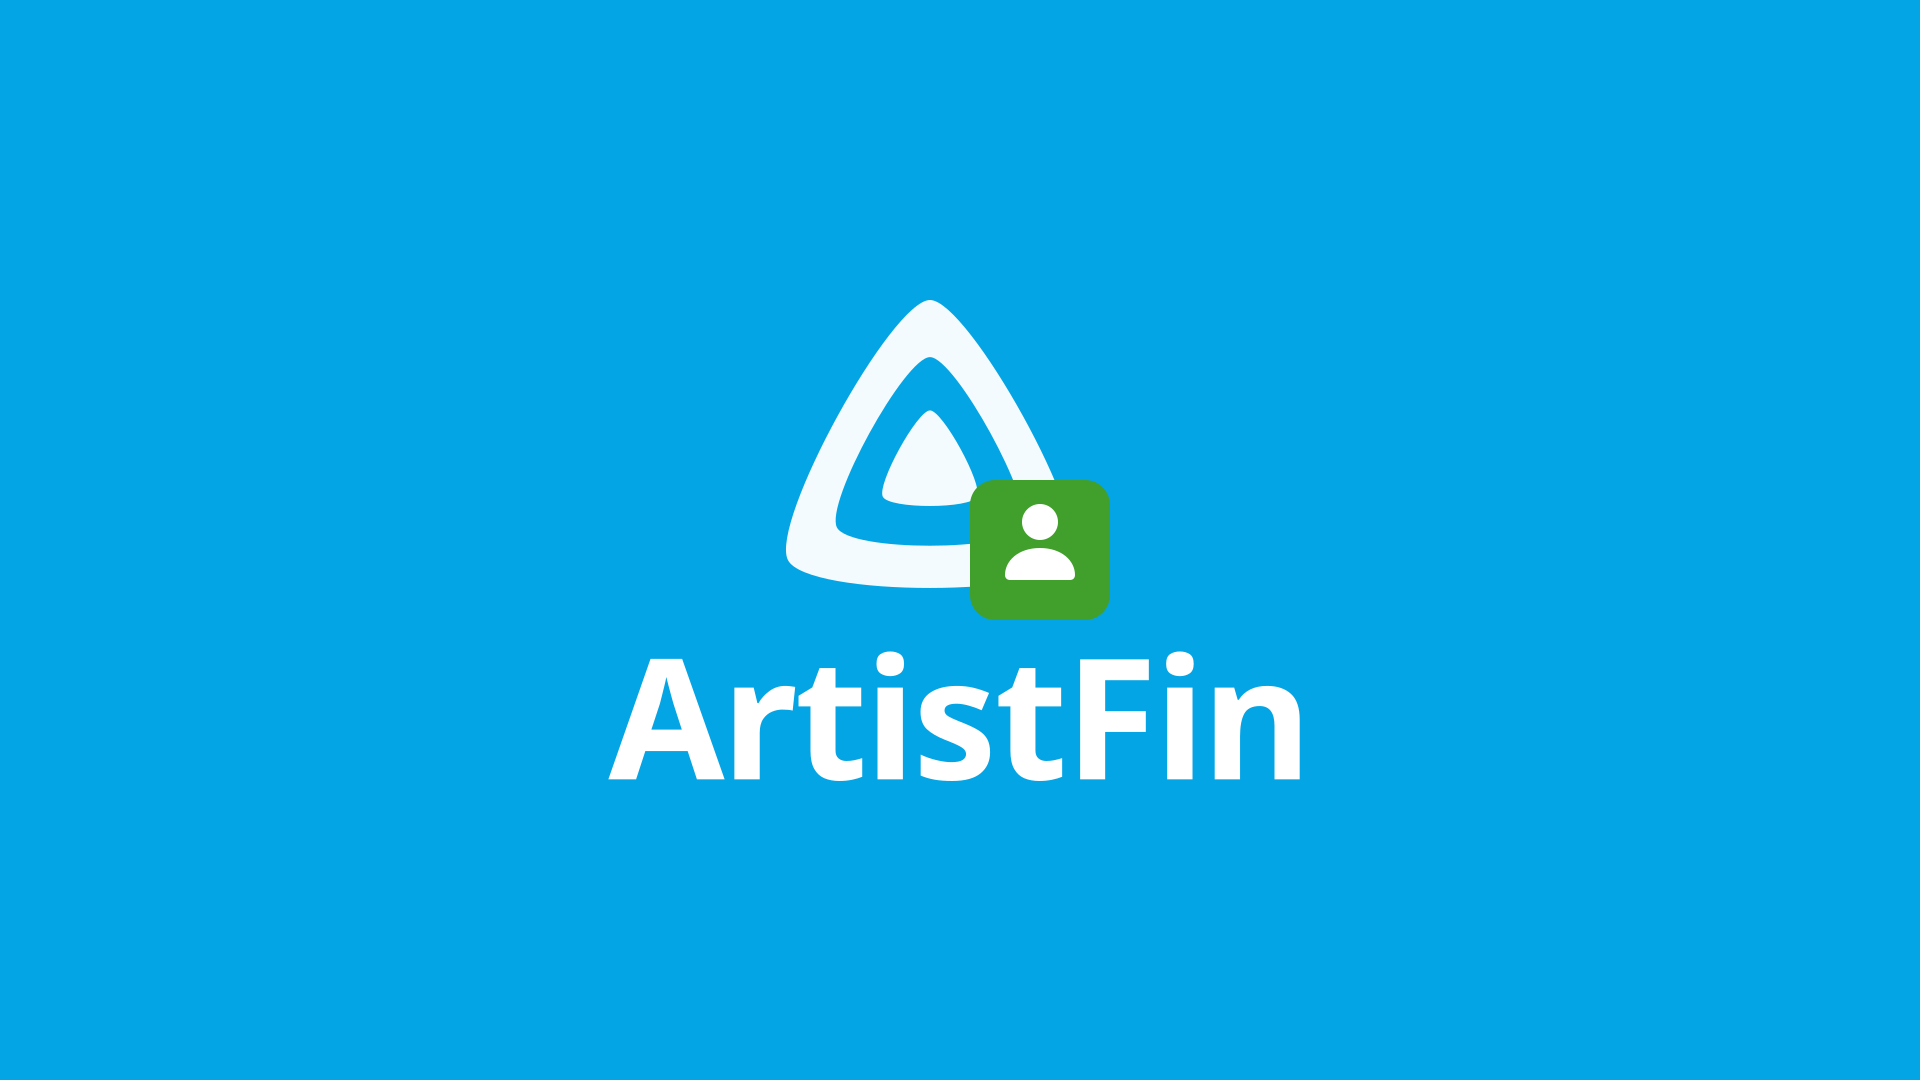
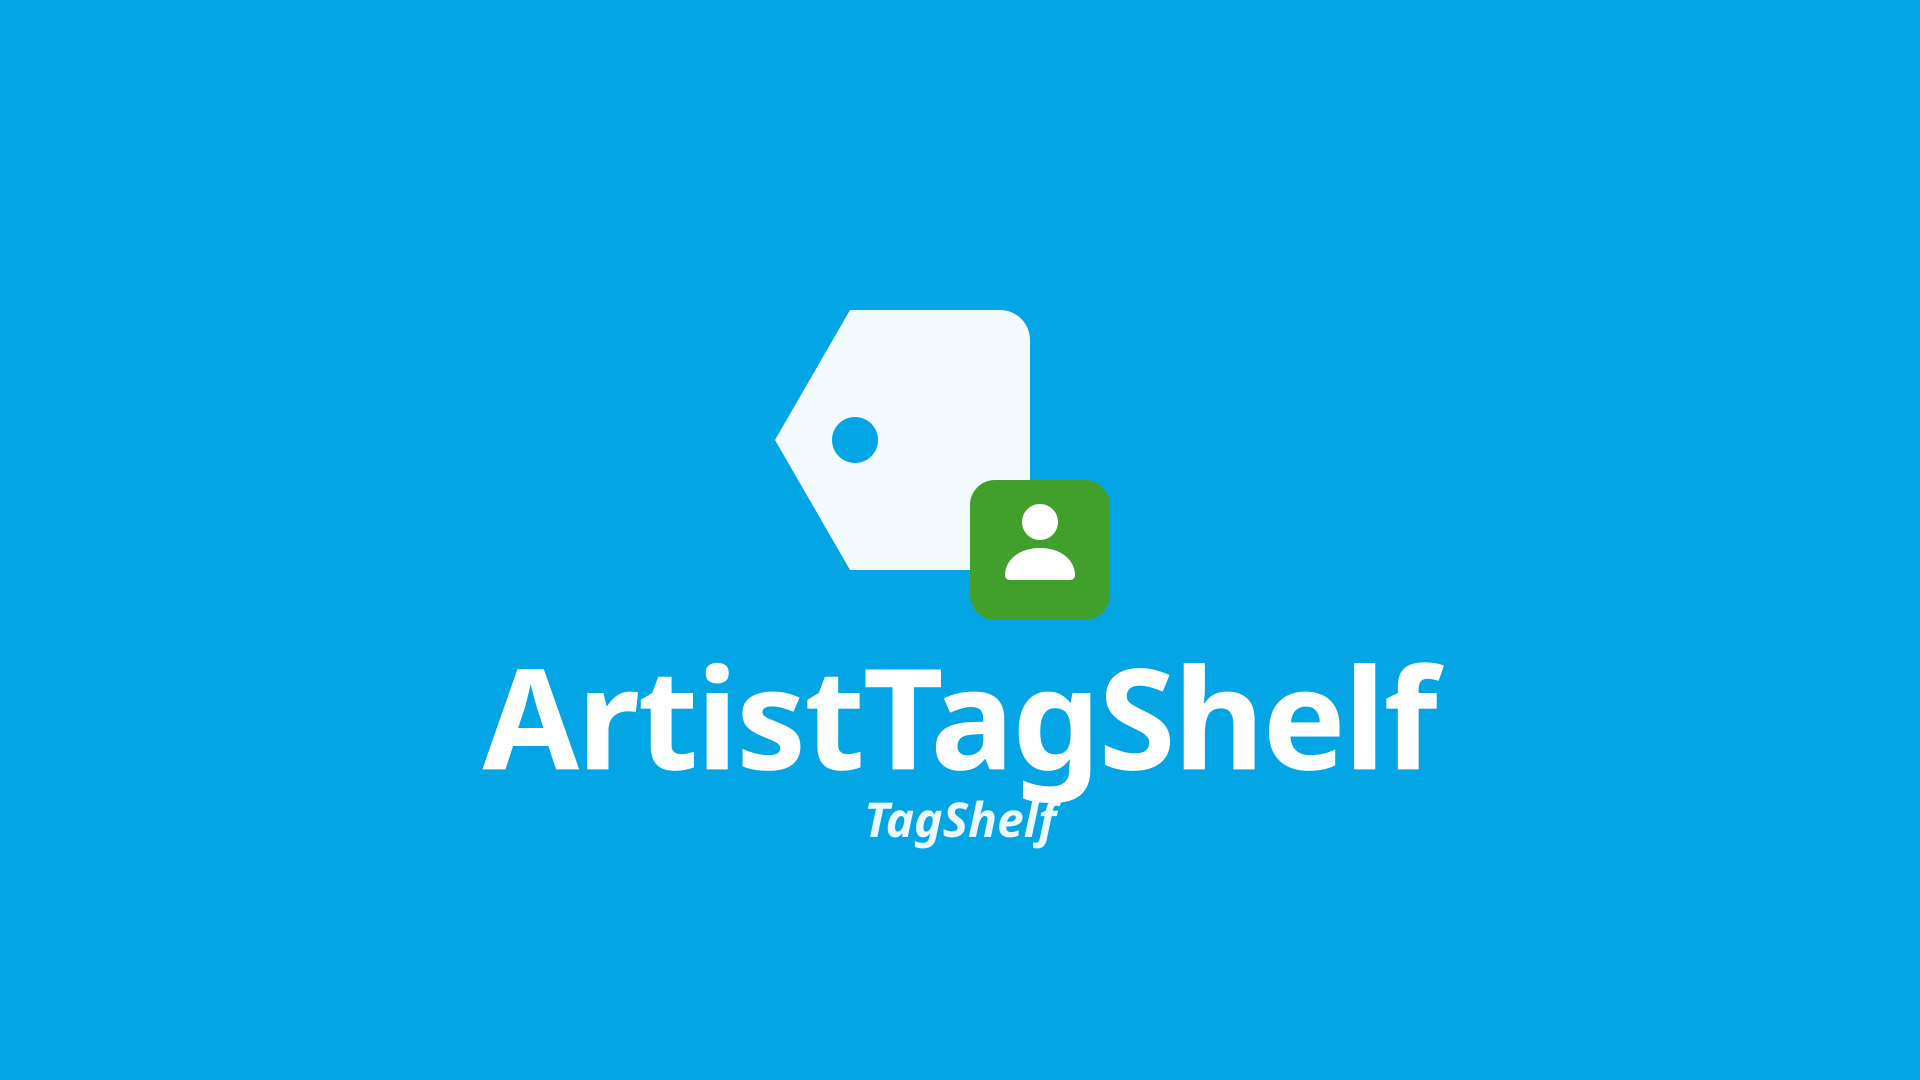
Rebrand to ArtistTagShelf
Rebrand from ArtistFin to ArtistTagShelf; new TagShelf logo; migrate HTTP cache folder. Plugin GUID unchanged.

Changed region(s): [[0.25, 0.5806, 0.75, 0.7944], [0.4062, 0.275, 0.5625, 0.55]]

diff --git a/Configuration/configPage.html b/Configuration/configPage.html
@@ -2,7 +2,7 @@
 <html lang="en">
 <head>
     <meta charset="utf-8" />
-    <title>ArtistFin: Know Your Artists</title>
+    <title>ArtistTagShelf: Know Your Artists</title>
     <style>
         .finConfig .finIntro { margin: 0.25em 0 1.5em; opacity: 0.75; }
         .finConfig .verticalSection { margin-top: 1.75em; }
@@ -51,7 +51,7 @@
             <div class="content-primary">
                 <form id="AfConfigForm">
                     <div class="sectionTitleContainer flex align-items-center">
-                        <h2 class="sectionTitle">ArtistFin: Know Your Artists</h2>
+                        <h2 class="sectionTitle">ArtistTagShelf: Know Your Artists</h2>
                     </div>
                     <p class="fieldDescription finIntro">Fills artist <strong>bios</strong>, <strong>images</strong>, and profile details. The scheduled task only fills what is missing.</p>
 
@@ -336,7 +336,7 @@
                 Dashboard.showLoadingMsg();
                 return ApiClient.ajax({
                     type: 'POST',
-                    url: ApiClient.getUrl('ArtistFin/RefreshAll'),
+                    url: ApiClient.getUrl('ArtistTagShelf/RefreshAll'),
                     contentType: 'application/json',
                     dataType: 'json'
                 }).then(function () {

diff --git a/ArtistEngine.cs b/ArtistEngine.cs
@@ -1,5 +1,5 @@
 using Jellyfin.Data.Enums;
-using Jellyfin.Plugin.ArtistFin.Configuration;
+using Jellyfin.Plugin.ArtistTagShelf.Configuration;
 using MediaBrowser.Controller.Entities;
 using MediaBrowser.Controller.Entities.Audio;
 using MediaBrowser.Controller.Library;
@@ -7,7 +7,7 @@ using MediaBrowser.Controller.Providers;
 using MediaBrowser.Model.Entities;
 using Microsoft.Extensions.Logging;
 
-namespace Jellyfin.Plugin.ArtistFin;
+namespace Jellyfin.Plugin.ArtistTagShelf;
 
 public class ArtistEngine
 {
@@ -50,7 +50,7 @@ public class ArtistEngine
         if (force)
         {
             _cache.Clear();
-            _logger.LogInformation("ArtistFin: force refresh requested (HTTP cache cleared)");
+            _logger.LogInformation("ArtistTagShelf: force refresh requested (HTTP cache cleared)");
         }
 
         var cfg = Plugin.Instance?.Configuration ?? new PluginConfiguration();
@@ -71,7 +71,7 @@ public class ArtistEngine
                 .ToList();
 
         _logger.LogInformation(
-            "ArtistFin: {Targets}/{Total} artists ({Mode}), providers {Providers}, {Workers} workers",
+            "ArtistTagShelf: {Targets}/{Total} artists ({Mode}), providers {Providers}, {Workers} workers",
             targets.Count,
             artists.Count,
             force ? "force all" : "missing only",
@@ -108,7 +108,7 @@ public class ArtistEngine
             catch (Exception ex)
             {
                 Interlocked.Increment(ref failed);
-                _logger.LogWarning(ex, "ArtistFin failed on {Id} ({Name})", artist.Id, artist.Name);
+                _logger.LogWarning(ex, "ArtistTagShelf failed on {Id} ({Name})", artist.Id, artist.Name);
             }
             finally
             {
@@ -120,7 +120,7 @@ public class ArtistEngine
 
         progress.Report(100);
         _logger.LogInformation(
-            "ArtistFin finished: updated {Updated}, no match {Missed}, skipped {Skipped}, http {Http}/{Cache} cache",
+            "ArtistTagShelf finished: updated {Updated}, no match {Missed}, skipped {Skipped}, http {Http}/{Cache} cache",
             updated,
             failed,
             skipped,
@@ -159,7 +159,7 @@ public class ArtistEngine
         {
             LookupMiss.Remember(_cache, ArtistMissKey(artist));
             _logger.LogInformation(
-                "ArtistFin: {Artist}: marked unknown (will retry after cache TTL)",
+                "ArtistTagShelf: {Artist}: marked unknown (will retry after cache TTL)",
                 artist.Name);
             return false;
         }
@@ -260,7 +260,7 @@ public class ArtistEngine
         if (changed || imagesSaved > 0)
         {
             _logger.LogInformation(
-                "ArtistFin updated {Id}: {Name} ({Source})",
+                "ArtistTagShelf updated {Id}: {Name} ({Source})",
                 artist.Id,
                 artist.Name,
                 profile.Source);
@@ -294,7 +294,7 @@ public class ArtistEngine
         }
         catch (Exception ex)
         {
-            _logger.LogDebug(ex, "ArtistFin could not save {Type} image for {Name}", type, artist.Name);
+            _logger.LogDebug(ex, "ArtistTagShelf could not save {Type} image for {Name}", type, artist.Name);
             return false;
         }
     }

diff --git a/TagShelfCommon/HttpCache.cs b/TagShelfCommon/HttpCache.cs
@@ -3,22 +3,70 @@ using System.Text;
 using System.Text.Json;
 using MediaBrowser.Common.Configuration;
 
-namespace Jellyfin.Plugin.FinCommon;
+namespace Jellyfin.Plugin.TagShelfCommon;
 
 public sealed class HttpCache
 {
     private readonly string _dir;
     private readonly object _gate = new();
 
-    public HttpCache(IApplicationPaths paths, string cacheFolderName)
+    public HttpCache(IApplicationPaths paths, string cacheFolderName, string? legacyCacheFolderName = null)
         : this(Path.Combine(paths.CachePath, cacheFolderName))
     {
+        if (!string.IsNullOrEmpty(legacyCacheFolderName))
+        {
+            TryMigrateLegacyCache(Path.Combine(paths.CachePath, legacyCacheFolderName), _dir);
+        }
     }
 
     public HttpCache(string cacheDirectory)
     {
         _dir = cacheDirectory;
         Directory.CreateDirectory(_dir);
+    }
+
+    private static void TryMigrateLegacyCache(string legacyDir, string newDir)
+    {
+        try
+        {
+            if (!Directory.Exists(legacyDir))
+            {
+                return;
+            }
+
+            Directory.CreateDirectory(newDir);
+            if (Directory.EnumerateFileSystemEntries(newDir).Any())
+            {
+                return;
+            }
+
+            foreach (var entry in Directory.EnumerateFileSystemEntries(legacyDir))
+            {
+                var name = Path.GetFileName(entry);
+                var dest = Path.Combine(newDir, name);
+                if (Directory.Exists(entry))
+                {
+                    Directory.Move(entry, dest);
+                }
+                else
+                {
+                    File.Move(entry, dest);
+                }
+            }
+
+            try
+            {
+                Directory.Delete(legacyDir, recursive: false);
+            }
+            catch
+            {
+                // Leave empty legacy dir if not removable.
+            }
+        }
+        catch
+        {
+            // Best-effort; cold cache is fine.
+        }
     }
 
     public bool TryGet(string key, TimeSpan ttl, out JsonElement element)

diff --git a/ArtistTagShelfMetadataProvider.cs b/ArtistTagShelfMetadataProvider.cs
@@ -1,26 +1,26 @@
 using System.Net.Http;
-using Jellyfin.Plugin.ArtistFin.Configuration;
+using Jellyfin.Plugin.ArtistTagShelf.Configuration;
 using MediaBrowser.Controller.Entities;
 using MediaBrowser.Controller.Entities.Audio;
 using MediaBrowser.Controller.Providers;
 using MediaBrowser.Model.Entities;
 using MediaBrowser.Model.Providers;
 
-namespace Jellyfin.Plugin.ArtistFin;
+namespace Jellyfin.Plugin.ArtistTagShelf;
 
-/// <summary>Native Jellyfin metadata provider so Identify/Refresh Artist also uses ArtistFin.</summary>
-public sealed class ArtistFinMetadataProvider : IRemoteMetadataProvider<MusicArtist, ArtistInfo>, IHasOrder
+/// <summary>Native Jellyfin metadata provider so Identify/Refresh Artist also uses ArtistTagShelf.</summary>
+public sealed class ArtistTagShelfMetadataProvider : IRemoteMetadataProvider<MusicArtist, ArtistInfo>, IHasOrder
 {
     private readonly ArtistLookupClient _lookup;
     private readonly IHttpClientFactory _http;
 
-    public ArtistFinMetadataProvider(ArtistLookupClient lookup, IHttpClientFactory http)
+    public ArtistTagShelfMetadataProvider(ArtistLookupClient lookup, IHttpClientFactory http)
     {
         _lookup = lookup;
         _http = http;
     }
 
-    public string Name => "ArtistFin";
+    public string Name => "ArtistTagShelf";
 
     public int Order => 2;
 

diff --git a/PluginServiceRegistrator.cs b/PluginServiceRegistrator.cs
@@ -5,17 +5,17 @@ using MediaBrowser.Controller.Plugins;
 using MediaBrowser.Controller.Providers;
 using Microsoft.Extensions.DependencyInjection;
 
-namespace Jellyfin.Plugin.ArtistFin;
+namespace Jellyfin.Plugin.ArtistTagShelf;
 
 public class PluginServiceRegistrator : IPluginServiceRegistrator
 {
     public void RegisterServices(IServiceCollection serviceCollection, IServerApplicationHost applicationHost)
     {
         serviceCollection.AddSingleton(sp =>
-            new HttpCache(sp.GetRequiredService<IApplicationPaths>(), "artistfin"));
+            new HttpCache(sp.GetRequiredService<IApplicationPaths>(), "artisttagshelf", "artistfin"));
         serviceCollection.AddSingleton<ArtistLookupClient>();
         serviceCollection.AddSingleton<ArtistEngine>();
-        serviceCollection.AddSingleton<IRemoteMetadataProvider<MusicArtist, ArtistInfo>, ArtistFinMetadataProvider>();
-        serviceCollection.AddSingleton<IRemoteImageProvider, ArtistFinImageProvider>();
+        serviceCollection.AddSingleton<IRemoteMetadataProvider<MusicArtist, ArtistInfo>, ArtistTagShelfMetadataProvider>();
+        serviceCollection.AddSingleton<IRemoteImageProvider, ArtistTagShelfImageProvider>();
     }
 }

diff --git a/ArtistLibraryTask.cs b/ArtistLibraryTask.cs
@@ -1,7 +1,7 @@
 using MediaBrowser.Model.Tasks;
 using Microsoft.Extensions.Logging;
 
-namespace Jellyfin.Plugin.ArtistFin;
+namespace Jellyfin.Plugin.ArtistTagShelf;
 
 public class ArtistLibraryTask : IScheduledTask
 {
@@ -14,9 +14,9 @@ public class ArtistLibraryTask : IScheduledTask
         _logger = logger;
     }
 
-    public string Name => "- ArtistFin: Know Your Artists";
+    public string Name => "- ArtistTagShelf: Know Your Artists";
 
-    public string Key => "ArtistFinLibrary";
+    public string Key => "ArtistTagShelfLibrary";
 
     public string Description =>
         "Fills missing artist bios, images, and profile details. A full refresh from plugin settings uses this same task and overwrites existing data.";
@@ -35,7 +35,7 @@ public class ArtistLibraryTask : IScheduledTask
         }
         catch (Exception ex)
         {
-            _logger.LogError(ex, "ArtistFin failed");
+            _logger.LogError(ex, "ArtistTagShelf failed");
             throw;
         }
     }

diff --git a/TagShelfCommon/SharedHostGate.cs b/TagShelfCommon/SharedHostGate.cs
@@ -1,10 +1,10 @@
 using System.Collections.Concurrent;
 
-namespace Jellyfin.Plugin.FinCommon;
+namespace Jellyfin.Plugin.TagShelfCommon;
 
 /// <summary>
-/// Cross-plugin pace for hosts multiple Fin plugins share (Deezer, MusicBrainz).
-/// Uses a temp-dir file lock so vendored FinCommon copies in separate assemblies still serialize.
+/// Cross-plugin pace for hosts multiple TagShelf plugins share (Deezer, MusicBrainz).
+/// Uses a temp-dir file lock so vendored TagShelfCommon copies in separate assemblies still serialize.
 /// </summary>
 public static class SharedHostGate
 {
@@ -21,7 +21,7 @@ public static class SharedHostGate
             return;
         }
 
-        var dir = Path.Combine(Path.GetTempPath(), "jellyfin-finfamily-pace");
+        var dir = Path.Combine(Path.GetTempPath(), "jellyfin-tagshelf-pace");
         Directory.CreateDirectory(dir);
         var lockPath = Path.Combine(dir, key + ".lock");
         var nextPath = Path.Combine(dir, key + ".next");

diff --git a/Plugin.cs b/Plugin.cs
@@ -1,11 +1,11 @@
 using System.Globalization;
-using Jellyfin.Plugin.ArtistFin.Configuration;
+using Jellyfin.Plugin.ArtistTagShelf.Configuration;
 using MediaBrowser.Common.Configuration;
 using MediaBrowser.Common.Plugins;
 using MediaBrowser.Model.Plugins;
 using MediaBrowser.Model.Serialization;
 
-namespace Jellyfin.Plugin.ArtistFin;
+namespace Jellyfin.Plugin.ArtistTagShelf;
 
 public class Plugin : BasePlugin<PluginConfiguration>, IHasWebPages
 {
@@ -19,7 +19,7 @@ public class Plugin : BasePlugin<PluginConfiguration>, IHasWebPages
 
     public static Plugin? Instance { get; private set; }
 
-    public override string Name => "ArtistFin: Know Your Artists";
+    public override string Name => "ArtistTagShelf: Know Your Artists";
 
     public override string Description =>
         "Fills artist bios, images, and profile details.";

diff --git a/ArtistTagShelfImageProvider.cs b/ArtistTagShelfImageProvider.cs
@@ -5,20 +5,20 @@ using MediaBrowser.Controller.Providers;
 using MediaBrowser.Model.Entities;
 using MediaBrowser.Model.Providers;
 
-namespace Jellyfin.Plugin.ArtistFin;
+namespace Jellyfin.Plugin.ArtistTagShelf;
 
-public sealed class ArtistFinImageProvider : IRemoteImageProvider, IHasOrder
+public sealed class ArtistTagShelfImageProvider : IRemoteImageProvider, IHasOrder
 {
     private readonly ArtistLookupClient _lookup;
     private readonly IHttpClientFactory _http;
 
-    public ArtistFinImageProvider(ArtistLookupClient lookup, IHttpClientFactory http)
+    public ArtistTagShelfImageProvider(ArtistLookupClient lookup, IHttpClientFactory http)
     {
         _lookup = lookup;
         _http = http;
     }
 
-    public string Name => "ArtistFin";
+    public string Name => "ArtistTagShelf";
 
     public int Order => 2;
 

diff --git a/ArtistLookupClient.cs b/ArtistLookupClient.cs
@@ -2,10 +2,10 @@ using System.Globalization;
 using System.Net;
 using System.Text.Json;
 using System.Text.RegularExpressions;
-using Jellyfin.Plugin.ArtistFin.Configuration;
+using Jellyfin.Plugin.ArtistTagShelf.Configuration;
 using Microsoft.Extensions.Logging;
 
-namespace Jellyfin.Plugin.ArtistFin;
+namespace Jellyfin.Plugin.ArtistTagShelf;
 
 public sealed class ArtistLookupClient
 {
@@ -23,7 +23,7 @@ public sealed class ArtistLookupClient
             factory,
             cache,
             TimeSpan.FromMilliseconds(400),
-            userAgent: "ArtistFin/1.0.0 (https://github.com/TidBits16/ArtistFin)",
+            userAgent: "ArtistTagShelf/1.0.0 (https://github.com/TidBits16/ArtistTagShelf)",
             maxInFlight: 1,
             retryOn429: true);
         _logger = logger;

diff --git a/ArtistTagShelfController.cs b/ArtistTagShelfController.cs
@@ -5,18 +5,18 @@ using Microsoft.AspNetCore.Authorization;
 using Microsoft.AspNetCore.Http;
 using Microsoft.AspNetCore.Mvc;
 
-namespace Jellyfin.Plugin.ArtistFin;
+namespace Jellyfin.Plugin.ArtistTagShelf;
 
 [Authorize(Policy = Policies.RequiresElevation)]
 [ApiController]
 [Produces(MediaTypeNames.Application.Json)]
-[Route("ArtistFin")]
-public sealed class ArtistFinController : ControllerBase
+[Route("ArtistTagShelf")]
+public sealed class ArtistTagShelfController : ControllerBase
 {
     private readonly ArtistEngine _engine;
     private readonly ITaskManager _tasks;
 
-    public ArtistFinController(ArtistEngine engine, ITaskManager tasks)
+    public ArtistTagShelfController(ArtistEngine engine, ITaskManager tasks)
     {
         _engine = engine;
         _tasks = tasks;

diff --git a/TagShelfCommon/PacedHttp.cs b/TagShelfCommon/PacedHttp.cs
@@ -2,9 +2,9 @@ using System.Net;
 using System.Net.Http;
 using System.Text.Json;
 
-namespace Jellyfin.Plugin.FinCommon;
+namespace Jellyfin.Plugin.TagShelfCommon;
 
-/// <summary>Paced HTTP GET with disk cache. Options cover MusicFin/ExplicitFin and LyricFin/ArtistFin.</summary>
+/// <summary>Paced HTTP GET with disk cache. Options cover MusicTagShelf / ExplicitTagShelf / LyricTagShelf / ArtistTagShelf.</summary>
 public sealed class PacedHttp
 {
     private readonly HttpClient _http;
